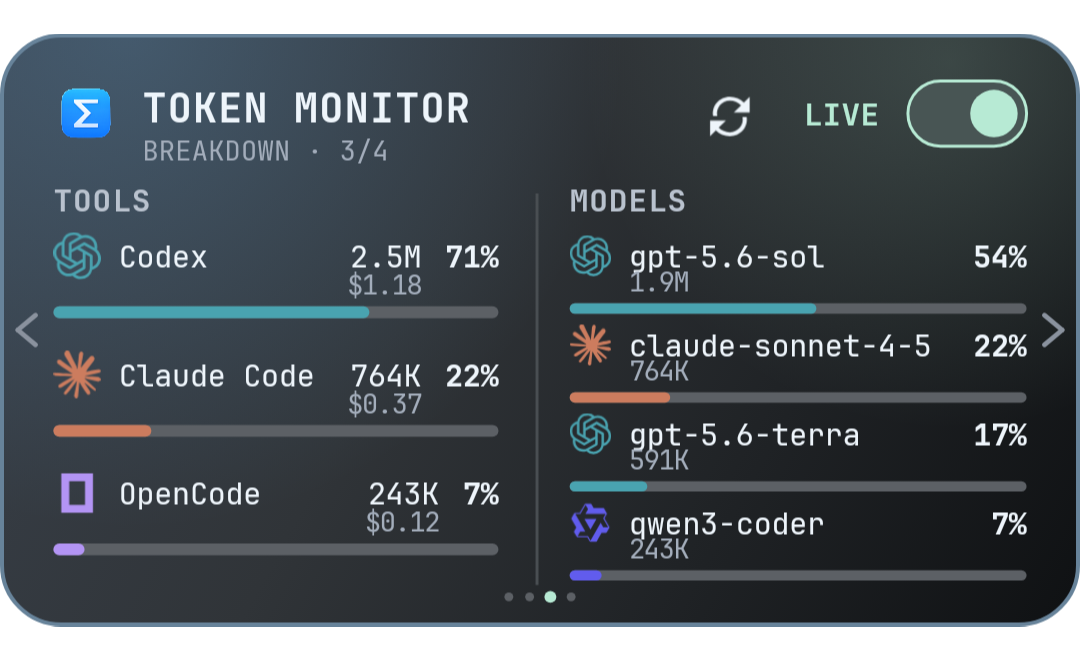
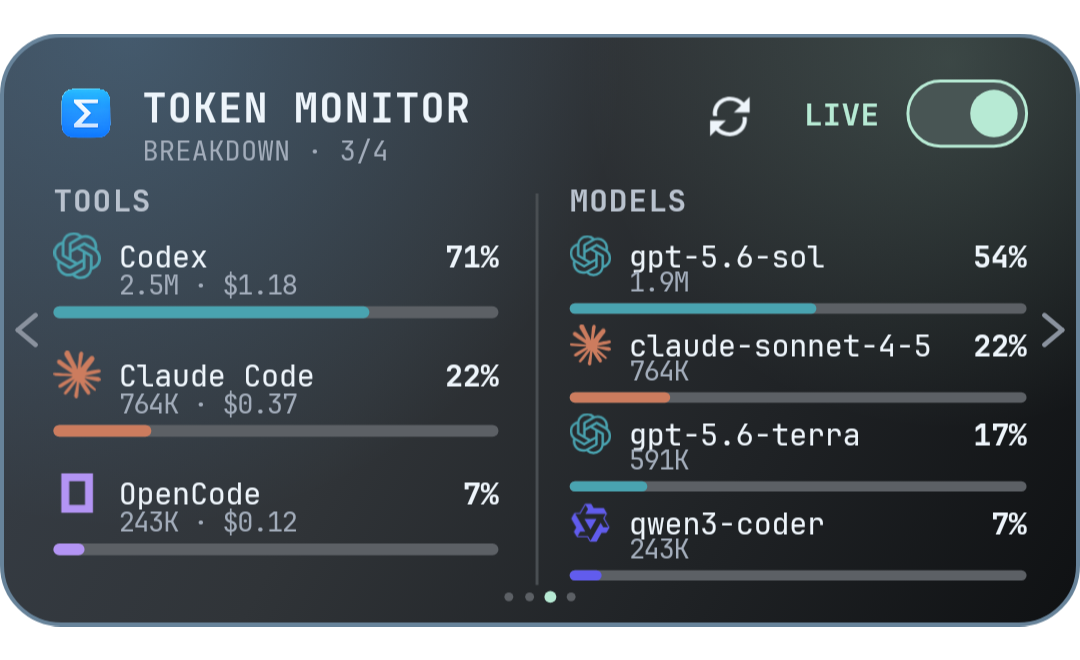
Fix sparse Breakdown widget layout

diff --git a/app/src/main/java/io/github/theminionooo/tokenmonitor/widget/WidgetDeckRenderer.kt b/app/src/main/java/io/github/theminionooo/tokenmonitor/widget/WidgetDeckRenderer.kt
@@ -311,17 +311,38 @@ private class DeckCanvas(
         vline(g.DIVIDER_X, g.DIVIDER_TOP, g.DIVIDER_BOTTOM, line)
         text("Tools", left, g.SECTION_BASELINE, section, label)
         text("Models", g.MODELS_X, g.SECTION_BASELINE, section, label)
+        if (data.tools.size <= 1 && data.models.size <= 1) {
+            data.tools.firstOrNull()?.let { row ->
+                val color = vendorColor(row.name, 0)
+                drawMark(row.name, left, g.SPARSE_MARK_TOP, g.SPARSE_MARK_SIZE, color, R.drawable.view_tool)
+                text(row.name.displayName(), g.SPARSE_TOOL_NAME_X, g.SPARSE_IDENTITY_BASELINE, bodyStrong, ink, maxWidth = g.TOOL_RIGHT - g.SPARSE_TOOL_NAME_X)
+                fitText(compactFigure(row.tokens), left, g.SPARSE_VALUE_BASELINE, figure, Type.STAT, ink, 72f)
+                text(sharePercent(row.share), g.TOOL_RIGHT, g.SPARSE_VALUE_BASELINE, figure, ink, Paint.Align.RIGHT, 68f)
+                text("Tokens", left, g.SPARSE_CAPTION_BASELINE, caption, muted)
+                text("Share", g.TOOL_RIGHT, g.SPARSE_CAPTION_BASELINE, caption, muted, Paint.Align.RIGHT)
+                drawBar(RectF(left, g.SPARSE_BAR_TOP, g.TOOL_RIGHT, g.SPARSE_BAR_BOTTOM), row.share, color)
+                if (row.costUsd > 0) text("${formatMoney(row.costUsd)} estimated cost", left, g.SPARSE_COST_BASELINE, secondary, muted)
+            }
+            data.models.firstOrNull()?.let { row ->
+                val color = vendorColor(row.name, 0)
+                drawMark(row.name, g.MODELS_X, g.SPARSE_MARK_TOP, g.SPARSE_MARK_SIZE, color, R.drawable.view_model)
+                text(row.name, g.SPARSE_MODEL_NAME_X, g.SPARSE_IDENTITY_BASELINE, bodyStrong, ink, maxWidth = right - g.SPARSE_MODEL_NAME_X)
+                fitText(compactFigure(row.tokens), g.MODELS_X, g.SPARSE_VALUE_BASELINE, figure, Type.STAT, ink, 72f)
+                text(sharePercent(row.share), right, g.SPARSE_VALUE_BASELINE, figure, ink, Paint.Align.RIGHT, 68f)
+                text("Tokens", g.MODELS_X, g.SPARSE_CAPTION_BASELINE, caption, muted)
+                text("Share", right, g.SPARSE_CAPTION_BASELINE, caption, muted, Paint.Align.RIGHT)
+                drawBar(RectF(g.MODELS_X, g.SPARSE_BAR_TOP, right, g.SPARSE_BAR_BOTTOM), row.share, color)
+            }
+            return
+        }
         data.tools.take(g.TOOL_ROW_TOPS.size).forEachIndexed { index, row ->
             val top = g.TOOL_ROW_TOPS[index]
             val color = vendorColor(row.name, index)
             drawMark(row.name, left, top - 1f, g.TOOL_MARK_SIZE, color, R.drawable.view_tool)
-            val shareText = sharePercent(row.share)
-            val valueRight = g.toolValueRight(measure(shareText, bodyStrong))
-            val tokenText = compactFigure(row.tokens)
-            text(shareText, g.TOOL_RIGHT, top + g.NAME_BASELINE_OFFSET, bodyStrong, ink, Paint.Align.RIGHT)
-            text(tokenText, valueRight, top + g.NAME_BASELINE_OFFSET, body, ink, Paint.Align.RIGHT)
-            text(row.name.displayName(), g.TOOL_NAME_X, top + g.NAME_BASELINE_OFFSET, body, ink, maxWidth = valueRight - measure(tokenText, body) - g.TOOL_NAME_X - 6f)
-            if (row.costUsd > 0) text(formatMoney(row.costUsd), valueRight, top + g.TOOL_COST_OFFSET, secondary, muted, Paint.Align.RIGHT)
+            val shareWidth = text(sharePercent(row.share), g.TOOL_RIGHT, top + g.NAME_BASELINE_OFFSET, bodyStrong, ink, Paint.Align.RIGHT)
+            text(row.name.displayName(), g.TOOL_NAME_X, top + g.NAME_BASELINE_OFFSET, body, ink, maxWidth = g.TOOL_RIGHT - shareWidth - 8f - g.TOOL_NAME_X)
+            val detail = compactFigure(row.tokens) + if (row.costUsd > 0) " · ${formatMoney(row.costUsd)}" else ""
+            text(detail, g.TOOL_NAME_X, top + g.TOOL_DETAIL_OFFSET, secondary, muted, maxWidth = g.TOOL_RIGHT - g.TOOL_NAME_X)
             drawBar(RectF(left, top + g.TOOL_BAR_TOP_OFFSET, g.TOOL_RIGHT, top + g.TOOL_BAR_BOTTOM_OFFSET), row.share, color)
         }
         data.models.take(g.MODEL_ROW_TOPS.size).forEachIndexed { index, row ->

diff --git a/app/src/main/java/io/github/theminionooo/tokenmonitor/widget/WidgetDeckGrid.kt b/app/src/main/java/io/github/theminionooo/tokenmonitor/widget/WidgetDeckGrid.kt
@@ -92,12 +92,21 @@ internal object WidgetDeckGrid {
         const val DIVIDER_BOTTOM = 186f
         const val SECTION_BASELINE = 60f
         const val MODELS_X = 192f
+        const val SPARSE_MARK_TOP = 72f
+        const val SPARSE_MARK_SIZE = 18f
+        const val SPARSE_TOOL_NAME_X = 42f
+        const val SPARSE_MODEL_NAME_X = 216f
+        const val SPARSE_IDENTITY_BASELINE = 87f
+        const val SPARSE_VALUE_BASELINE = 118f
+        const val SPARSE_CAPTION_BASELINE = 132f
+        const val SPARSE_BAR_TOP = 142f
+        const val SPARSE_BAR_BOTTOM = 148f
+        const val SPARSE_COST_BASELINE = 163f
         val TOOL_ROW_TOPS = floatArrayOf(68f, 108f, 148f)
         const val TOOL_MARK_SIZE = 16f
         const val TOOL_NAME_X = 40f
         const val TOOL_RIGHT = 168f
-        const val TOOL_VALUE_GAP = 8f
-        const val TOOL_COST_OFFSET = 20f
+        const val TOOL_DETAIL_OFFSET = 20f
         const val TOOL_BAR_TOP_OFFSET = 24f
         const val TOOL_BAR_BOTTOM_OFFSET = 28f
         val MODEL_ROW_TOPS = floatArrayOf(68f, 98f, 128f, 158f)
@@ -107,8 +116,6 @@ internal object WidgetDeckGrid {
         const val MODEL_BAR_TOP_OFFSET = 23f
         const val MODEL_BAR_BOTTOM_OFFSET = 26.5f
         const val NAME_BASELINE_OFFSET = 11f
-
-        fun toolValueRight(shareWidth: Float): Float = TOOL_RIGHT - shareWidth - TOOL_VALUE_GAP
     }
 
     object Activity {

diff --git a/app/src/test/java/io/github/theminionooo/tokenmonitor/widget/WidgetDeckGridTest.kt b/app/src/test/java/io/github/theminionooo/tokenmonitor/widget/WidgetDeckGridTest.kt
@@ -39,9 +39,18 @@ class WidgetDeckGridTest {
         assertTrue(overview.STAT_CAPTION_OFFSET - overview.STAT_VALUE_OFFSET >= WidgetDeckGrid.Type.CAPTION)
     }
 
-    @Test fun `breakdown tool values keep a fixed gap from the measured share`() {
+    @Test fun `breakdown tool rows keep supporting figures below the identity line`() {
         val breakdown = WidgetDeckGrid.Breakdown
-        assertEquals(136f, breakdown.toolValueRight(24f), 0.0001f)
-        assertEquals(breakdown.TOOL_VALUE_GAP, breakdown.TOOL_RIGHT - 24f - breakdown.toolValueRight(24f), 0.0001f)
+        assertTrue(breakdown.TOOL_DETAIL_OFFSET > breakdown.NAME_BASELINE_OFFSET)
+        assertTrue(breakdown.TOOL_DETAIL_OFFSET < breakdown.TOOL_BAR_TOP_OFFSET)
+        assertTrue(breakdown.TOOL_RIGHT - breakdown.TOOL_NAME_X >= 100f)
+    }
+
+    @Test fun `sparse breakdown gives aligned figures the full column width`() {
+        val breakdown = WidgetDeckGrid.Breakdown
+        assertTrue(breakdown.SPARSE_VALUE_BASELINE > breakdown.SPARSE_IDENTITY_BASELINE)
+        assertTrue(breakdown.SPARSE_CAPTION_BASELINE > breakdown.SPARSE_VALUE_BASELINE)
+        assertTrue(breakdown.SPARSE_BAR_TOP > breakdown.SPARSE_CAPTION_BASELINE)
+        assertTrue(breakdown.SPARSE_COST_BASELINE < WidgetDeckGrid.Header.DOTS_Y)
     }
 }

diff --git a/docs/WIDGET_SPEC.md b/docs/WIDGET_SPEC.md
@@ -152,6 +152,28 @@ empty state.
 
 ## Breakdown
 
+When both reported lists contain at most one row, the page uses the sparse
+feature layout below. This is the common installed state and must not look like
+an almost-empty dense table.
+
+| Sparse element | Position (units) |
+| --- | --- |
+| Tool identity mark | 18×18 at (18, 72) |
+| Tool identity | x 42, baseline 87, body strong, ellipsized at x 168 |
+| Model identity mark | 18×18 at (192, 72) |
+| Model identity | x 216, baseline 87, body strong, ellipsized at x 346 |
+| Token figure | column left edge, baseline 118, figure type |
+| Share figure | column right edge, baseline 118, figure type, right aligned |
+| "TOKENS" caption | column left edge, baseline 132 |
+| "SHARE" caption | column right edge, baseline 132, right aligned |
+| Share bar | full column width, y 142 … 148, radius 3 |
+| Tool cost | x 18, baseline 163, secondary type |
+
+The token and share figures use opposite edges of the same column, so neither
+can read as part of the other. Both halves use identical baselines and type.
+
+When either list contains more than one row, use the dense table:
+
 | Element | Position (units) |
 | --- | --- |
 | Column divider | x 181, y 54 … 186, line color |
@@ -159,10 +181,9 @@ empty state.
 | "MODELS" section | x 192, baseline 60 |
 | Tool rows | up to 3, tops at 68, 108, 148 |
 | Tool mark | 16×16 at (18, row top − 1) |
-| Tool name (body) | x 40, baseline row top + 11, ellipsized 6 units before the tokens |
+| Tool name (body) | x 40, baseline row top + 11, ellipsized 8 units before the share |
 | Tool share (body strong) | right edge 168, baseline row top + 11 |
-| Tool tokens (body) | right edge is the measured left edge of the share minus 8 units, baseline row top + 11 |
-| Tool cost (secondary) | same right edge as the tokens, baseline row top + 20 |
+| Tool detail (secondary) | x 40, baseline row top + 20; token total followed by cost when reported |
 | Tool bar | x 18 … 168, y row top + 24 … row top + 28, radius 2 |
 | Model rows | up to 4, tops at 68, 98, 128, 158 |
 | Model mark | 14×14 at (192, row top) |
@@ -171,11 +192,11 @@ empty state.
 | Model tokens (secondary) | x 212, baseline row top + 19 |
 | Model bar | x 192 … 346, y row top + 23 … row top + 26.5, radius 1.75 |
 
-The tool share column always reserves its measured width plus an 8-unit gap, so
-three-digit shares such as 100 percent cannot run into the token figure. Model
-names are long, so the models column keeps the whole name on the first
-line and moves the token figure under it; the tools column keeps the concept's
-single line because tool names are short.
+Tool and model rows use the same two-line hierarchy: identity and share on the
+first line, supporting figures on the second. The tools column prints the token
+total followed by cost when cost is reported; the models column prints the token
+total. This removes the ambiguous token/share run at One UI's installed widget
+size without shrinking text or truncating ordinary tool names.
 
 Shares under one percent print as "<1%". Bars use the row's vendor color.
 Fewer rows leave the remaining space empty; row pitch never changes.

diff --git a/docs/VALIDATION.md b/docs/VALIDATION.md
@@ -1,8 +1,41 @@
 # Validation
 
 The current public release is Android **v0.56.0 r4** (`560004`). The current
-source candidate and latest phone-verified build is **v0.60.0 r5** (`600005`).
+source candidate and latest phone-verified build is **v0.60.0 r6** (`600006`).
 It remains unpublished pending maintainer approval.
+
+## v0.60.0 r6 candidate
+
+The owner's final r5 One UI screenshot showed that the common one-tool/one-model
+state still looked like a mostly empty dense table: small figures clustered at
+the top and the token total could read into the share. r6 gives this sparse state
+a dedicated feature layout with large token and share figures on opposite column
+edges, explicit captions, matching baselines, and full-width bars. Multi-row data
+continues to use the dense table. The card ratio and the other three pages do not
+change.
+
+The written grid specification was updated before the renderer. All 82 JVM
+tests, all 31 API 36 instrumentation tests, lint, debug assembly, signed release
+assembly, documentation links, and the final diff check pass. The independent
+review found no material issue.
+
+The signed r6 APK reports package `io.github.theminionooo.tokenmonitor`, version
+code `600006`, certificate SHA-256
[2 lines of base64/hex data omitted]
+
+The APK was installed over the existing r5/r6 candidate on a Galaxy S25 Ultra
+(SM-S938U) without uninstalling. The original first-install timestamp
+(`2026-09-21 11:03:41`) and One UI widget ID `42` were preserved. Physical
+captures of Overview, Limits, Breakdown, and Activity are in
+`local-private/widget-r6-phone-2026-09-22/`. The sparse Breakdown capture shows
+the token and share figures separated and aligned at the installed 5×2 widget
+size; the other three pages remain visually consistent with the approved r5
+phone-size comparison.
+
+The bounded battery gate found no active Token Monitor service or wake lock and
+no Android CLI test instrumentation. This is an idle-state check, not a
+multi-hour battery soak.
 
 ## v0.60.0 r5 candidate
 

diff --git a/README.md b/README.md
@@ -122,7 +122,7 @@ The Hub deliberately does not carry prompt or response text, so the phone never 
 
 You need Android 8.0 or newer and a desktop running Token Monitor v0.60.0 with Hub hosting on.
 
-1. Follow [Installing and updating](docs/INSTALL.md). The signed v0.56.0 r4 APK remains the latest public release; the phone-verified v0.60.0 r5 candidate is ready but unpublished.
+1. Follow [Installing and updating](docs/INSTALL.md). The signed v0.56.0 r4 APK remains the latest public release; v0.60.0 r6 is the current phone-verified candidate and remains unpublished.
 2. Put [Tailscale](https://tailscale.com/) on the desktop and the phone, signed into the same tailnet.
 3. In desktop Token Monitor, open **Settings → Multi-device Sync → Host Hub** and copy the address and shared secret.
 4. In the app, type the address that starts with `100.`, paste the secret, tap **Connect**. Just the numbers are enough.
@@ -135,8 +135,8 @@ You need Android 8.0 or newer and a desktop running Token Monitor v0.60.0 with H
 | | |
 | --- | --- |
 | Current Android release | [`v0.56.0-r4`](https://github.com/The-Minion-oOo/token-monitor-android/releases/tag/android-v0.56.0-r4) |
-| Current source candidate | `v0.60.0-r5` ([candidate notes](docs/releases/android-v0.60.0-r5.md)) |
-| Latest phone-verified build | `v0.60.0-r5` ([candidate notes](docs/releases/android-v0.60.0-r5.md)) |
+| Current source candidate | `v0.60.0-r6` ([candidate notes](docs/releases/android-v0.60.0-r6.md)) |
+| Latest phone-verified build | `v0.60.0-r6` ([candidate notes](docs/releases/android-v0.60.0-r6.md)) |
 | Verified desktop baseline | Token Monitor `v0.60.0` |
 | Upstream commit | [`8031cf3`](https://github.com/Javis603/token-monitor/commit/8031cf3b75c7f354db8a990a983999c69086da28) |
 

diff --git a/docs/releases/android-v0.60.0-r6.md b/docs/releases/android-v0.60.0-r6.md
@@ -1,0 +1,35 @@
+# Token Monitor for Android v0.60.0 r6
+
+This revision rebuilds the common one-tool/one-model Breakdown state after the
+installed r5 still looked like a mostly empty dense table on One UI.
+
+## What changed
+
+- A dedicated sparse layout gives token totals and shares large, opposing
+  figures with explicit `TOKENS` and `SHARE` captions.
+- Tool and model halves use matching baselines, full-width bars, and balanced
+  vertical spacing instead of clustering small text at the top of the card.
+- Dense multi-row data keeps the compact table layout.
+- The card ratio and the other three widget pages are unchanged.
+- `docs/WIDGET_SPEC.md` remains the source of truth for the renderer grid.
+
+## Compatibility
+
+- Desktop Token Monitor: v0.60.0
+- Android: 8.0 or newer
+- Upgrade: version code `600006` installs over r5 and earlier signed builds
+  without removing pairing, settings, or widget state. Do not uninstall first.
+
+The app remains read-only. Page changes are local and add no background timer,
+network request, service, or wake lock.
+
+## Verification
+
+- 82 JVM tests and 31 API 36 instrumentation tests pass.
+- Lint, debug assembly, signed release assembly, and documentation checks pass.
+- The signed APK upgrades the existing Galaxy installation in place and keeps
+  the existing One UI widget.
+- All four widget pages were captured on the Galaxy after the upgrade; the new
+  sparse Breakdown composition is visible at the installed 5×2 size.
+
+See [Install and update](../INSTALL.md) for installation and checksum instructions.

diff --git a/docs/INSTALL.md b/docs/INSTALL.md
@@ -13,8 +13,8 @@ A signed v0.56.0 r4 APK remains available from the public
 Its automated, emulator, and signing checks pass. Samsung-specific installation
 and launcher inspection status is recorded in [Validation](VALIDATION.md).
 
-The current source is the v0.60.0 r5 candidate. It is not a public release until
-the signed APK passes the phone upgrade gate and appears on the Releases page.
+The current source is the phone-verified v0.60.0 r6 candidate. It is not a public
+release until the signed APK appears on the Releases page.
 
 To build the current source, install JDK 17 and Android SDK 37, then run:
 
@@ -41,7 +41,7 @@ There is no Play Store or F-Droid listing.
 Each signed release will include an APK and a `.sha256` file. Compare the hash:
 
 ```powershell
-Get-FileHash .\token-monitor-android-v0.60.0-r5.apk -Algorithm SHA256
+Get-FileHash .\token-monitor-android-v0.60.0-r6.apk -Algorithm SHA256
 ```
 
 A matching checksum detects download corruption; download both files from the

diff --git a/CHANGELOG.md b/CHANGELOG.md
@@ -3,7 +3,11 @@
 Android releases use the desktop protocol version plus an Android revision.
 Unreleased work stays under **Next release** until its signed APK is published.
 
-## Next release — v0.60.0 r5
+## Next release — v0.60.0 r6
+
+- Give the common one-tool/one-model Breakdown state a dedicated feature
+  layout with large, aligned token and share figures, explicit captions, and
+  full-width bars. Dense multi-row data keeps the compact table layout.
 
 - Verify the desktop Token Monitor v0.60.0 Hub contract while retaining the
   v0.54.0, v0.55.0, and v0.56.0 compatibility fixtures.

diff --git a/docs/RELEASING.md b/docs/RELEASING.md
@@ -8,8 +8,8 @@ Android-only releases keep `versionName` and increment the final three digits of
 
 ```text
 versionName: v0.60.0
-versionCode: 600005
-release tag: android-v0.60.0-r5
+versionCode: 600006
+release tag: android-v0.60.0-r6
 ```
 
 A newly verified desktop version updates the visible version and starts its
